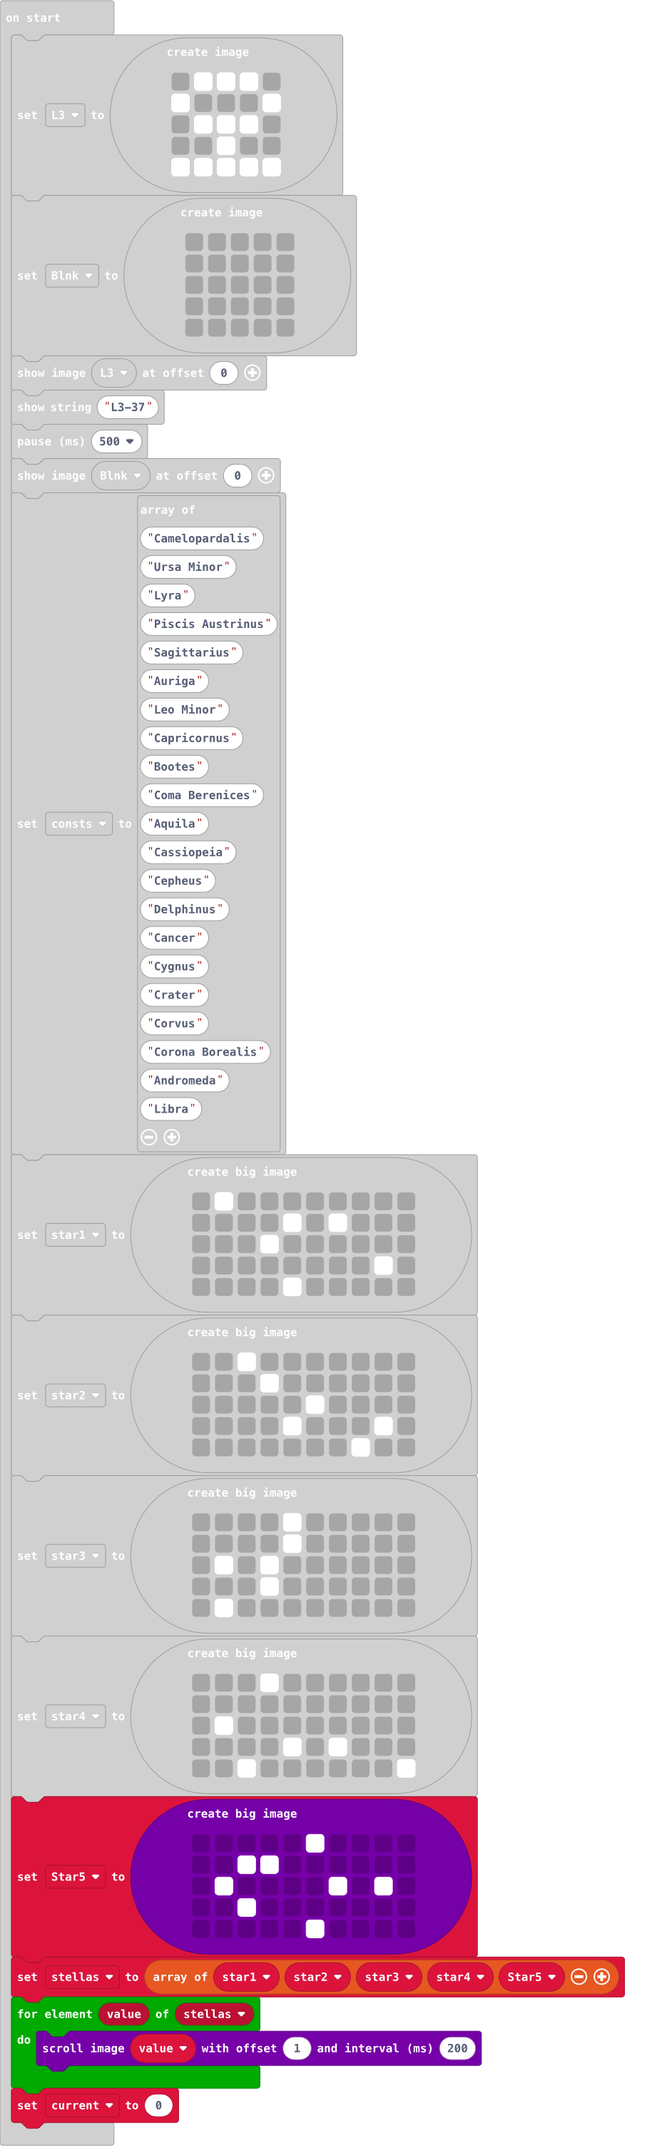
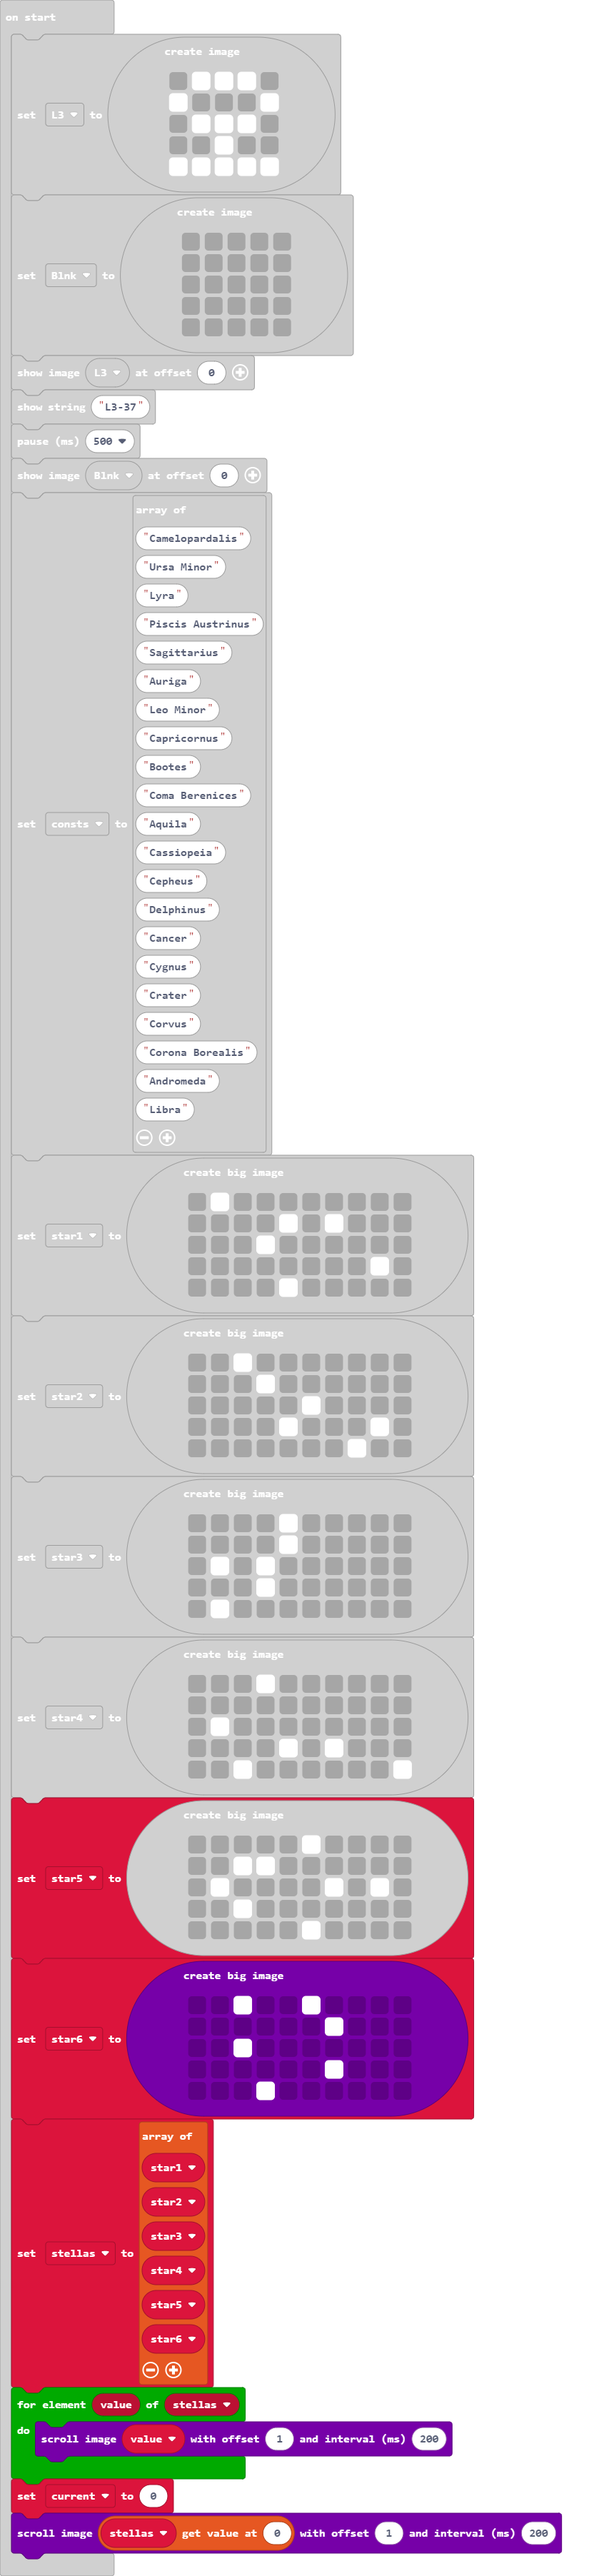
Update main.blocks, main.ts

diff --git a/main.ts b/main.ts
@@ -97,15 +97,23 @@ let star4 = images.createBigImage(`
     . . . . # . # . . .
     . . # . . . . . . #
     `)
-let Star5 = images.createBigImage(`
+let star5 = images.createBigImage(`
     . . . . . # . . . .
     . . # # . . . . . .
     . # . . . . # . # .
     . . # . . . . . . .
     . . . . . # . . . .
     `)
-stellas = [star1, star2, star3, star4, Star5]
+let star6 = images.createBigImage(`
+    . . # . . # . . . .
+    . . . . . . # . . .
+    . . # . . . . . . .
+    . . . . . . # . . .
+    . . . # . . . . . .
+    `)
+stellas = [star1, star2, star3, star4, star5, star6]
 for (let value of stellas) {
     value.scrollImage(1, 200)
 }
 current = 0
+stellas[0].scrollImage(1, 200)
